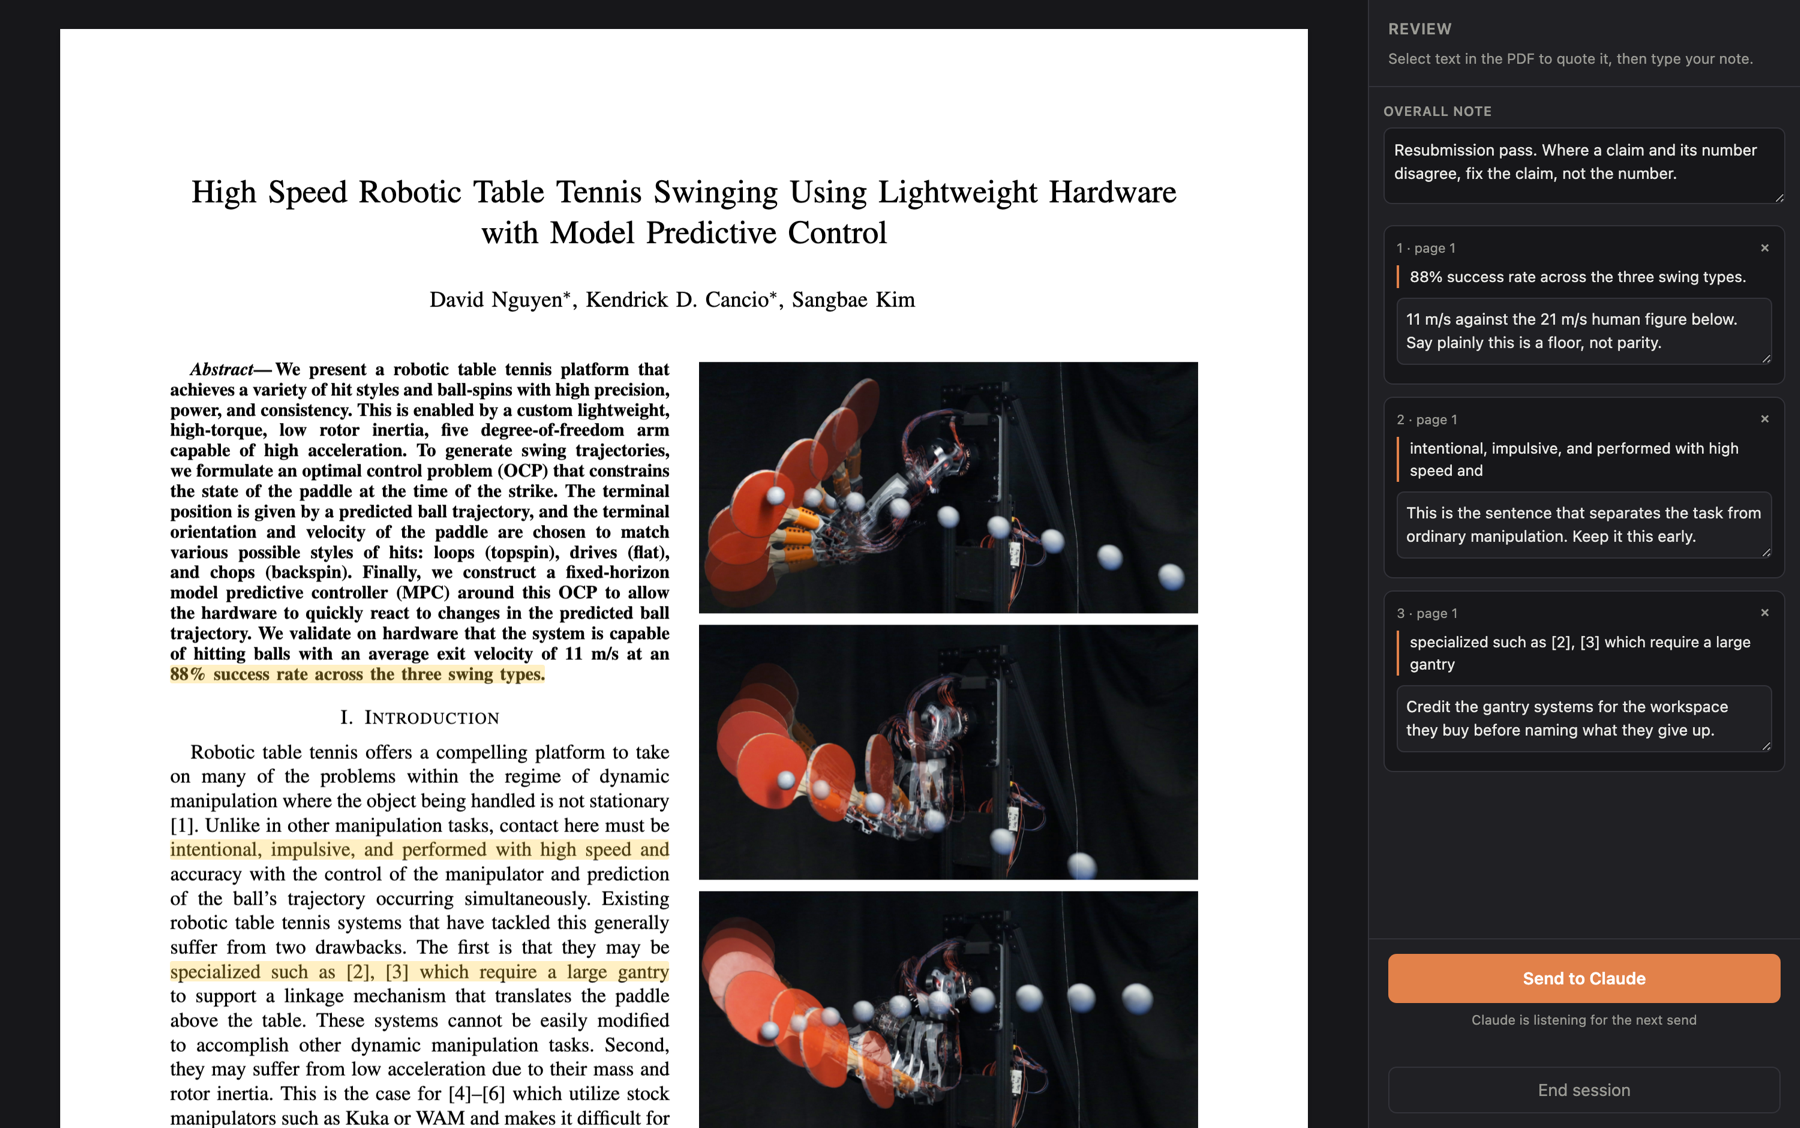
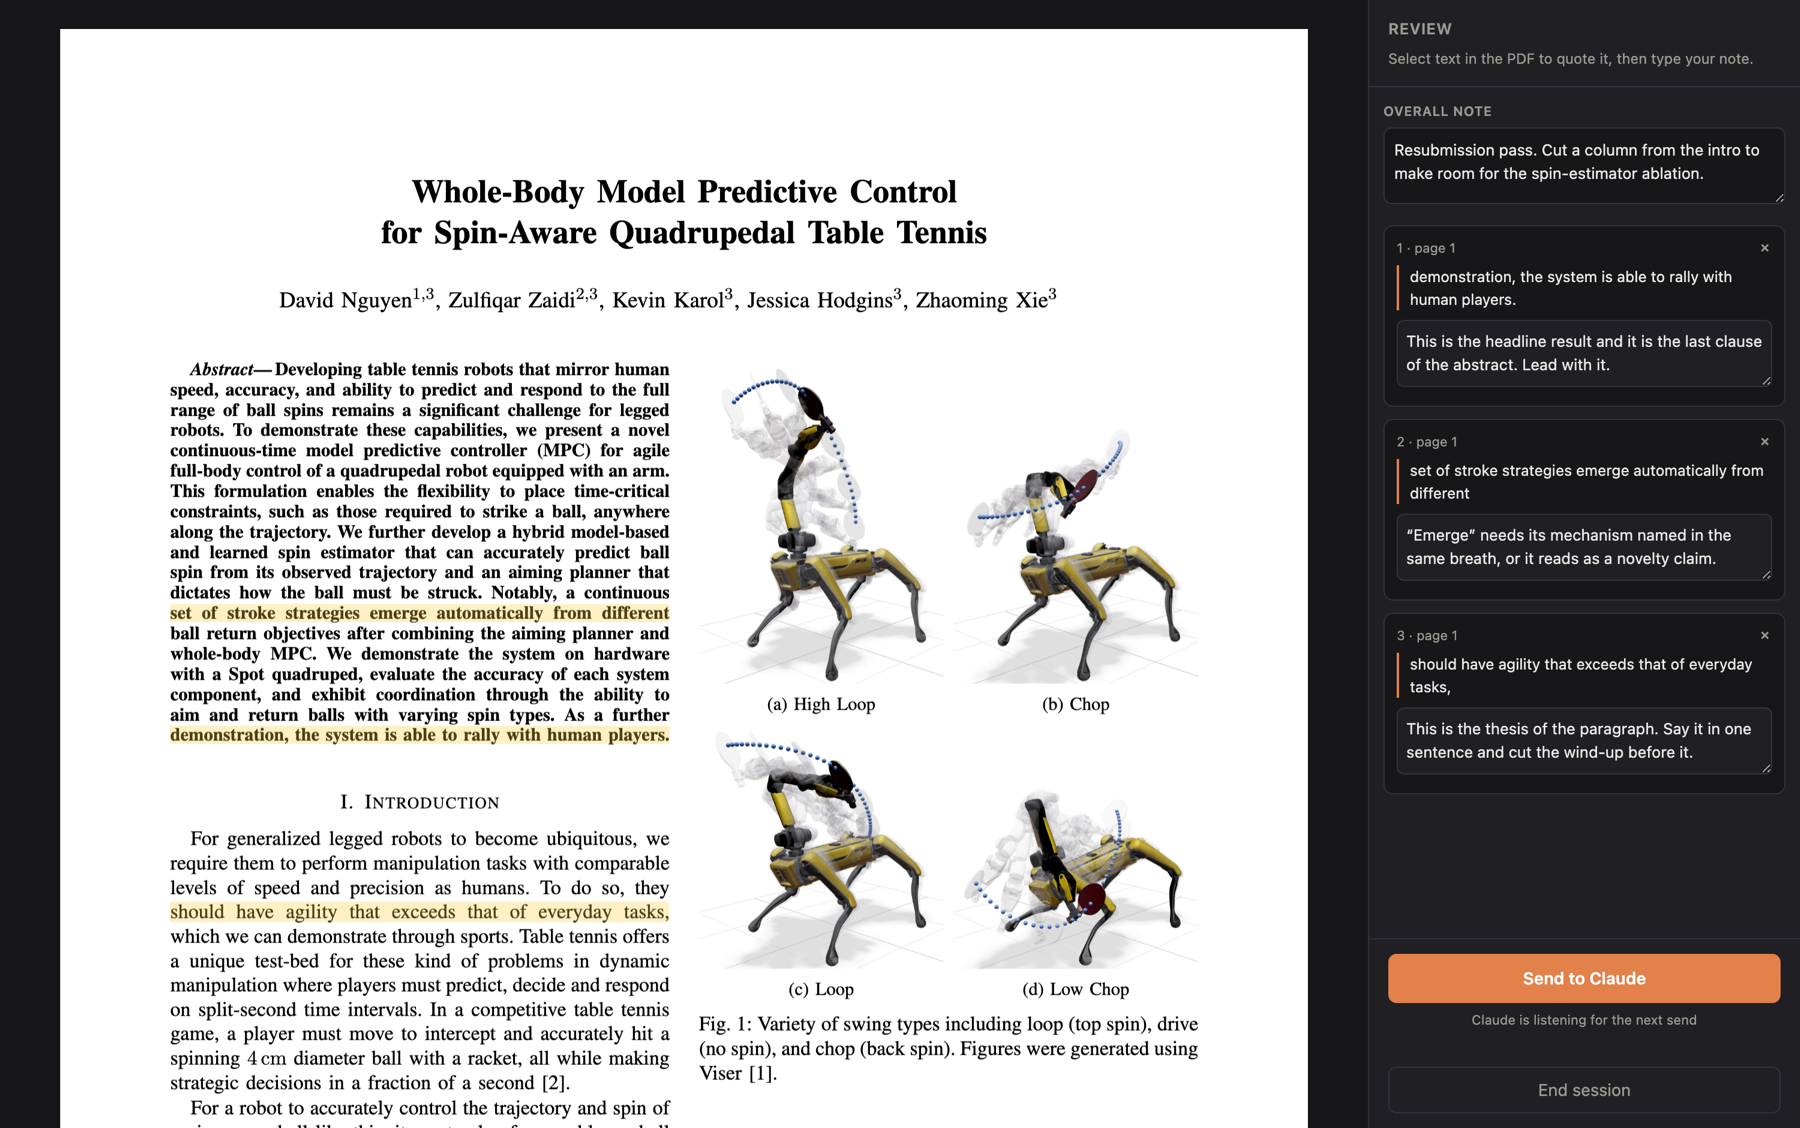
README: a different paper in each screenshot
The review state now shows the quadruped table tennis paper and the working
state the MIT lightweight-arm one, so the two figures do not repeat the same
document. Caption each with the paper it is a pass over.

diff --git a/README.md b/README.md
@@ -9,7 +9,7 @@ page reloads on the new PDF. Then it waits for your next pass.
 
 ![The review viewer: a rendered page with three highlighted passages, and the sidebar holding a note against each one](docs/review.png)
 
-<sub>Example pass over “High Speed Robotic Table Tennis Swinging Using Lightweight Hardware with Model Predictive Control” (ICRA 2025).</sub>
+<sub>A pass over “Whole-Body Model Predictive Control for Spin-Aware Quadrupedal Table Tennis.”</sub>
 
 > **Requires the [Overleaf Connect][oc] VS Code extension.** It is what puts your
 > Overleaf project on local disk and compiles it locally. See
@@ -109,6 +109,8 @@ that halts it at the next checkpoint, leaving the edits it already made in
 place:
 
 ![The sidebar mid-pass, reading "Claude is working" with the current step and a Stop button](docs/working.png)
+
+<sub>A second paper mid-pass: “High Speed Robotic Table Tennis Swinging Using Lightweight Hardware with Model Predictive Control” (ICRA 2025).</sub>
 
 When the rebuild lands, the page reloads on the new PDF and Claude arms itself
 for another pass. **End session** shuts the server down.
